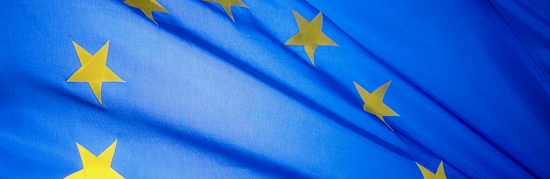
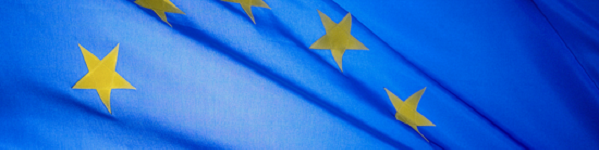
bandeiras

diff --git a/rankings.html b/rankings.html
@@ -38,12 +38,12 @@
                 <h2>CS:GO top 10 players</h2>
             </div>
             <div class="select-stats">
-                <button>
-              <img class="portugal" class="img-center" src="img/Portugal.jpg" />
-            </button>
-                <button>
-              <img class="mundial" class="img-center" src="img/Mundial.png" />
-            </button>
+                <button class="portugal">
+                  <img class="img-center" src="img/Portugal.jpg" />
+                </button>
+                <button class="mundial">
+                  <img class="img-center"src="img/Mundial.png" />
+                </button>
             </div>
     </div>
     </main>

diff --git a/rankings.css b/rankings.css
@@ -171,13 +171,13 @@ button {
 }
 
 .portugal {
-    width: 650%;
-    height: 150%;
+    height: 0%;
+    width: 0%;
 }
 
 .mundial {
-    width: 650%;
-    height: 150%;
+    height: 0%;
+    width: 0%;
 }
 
 
